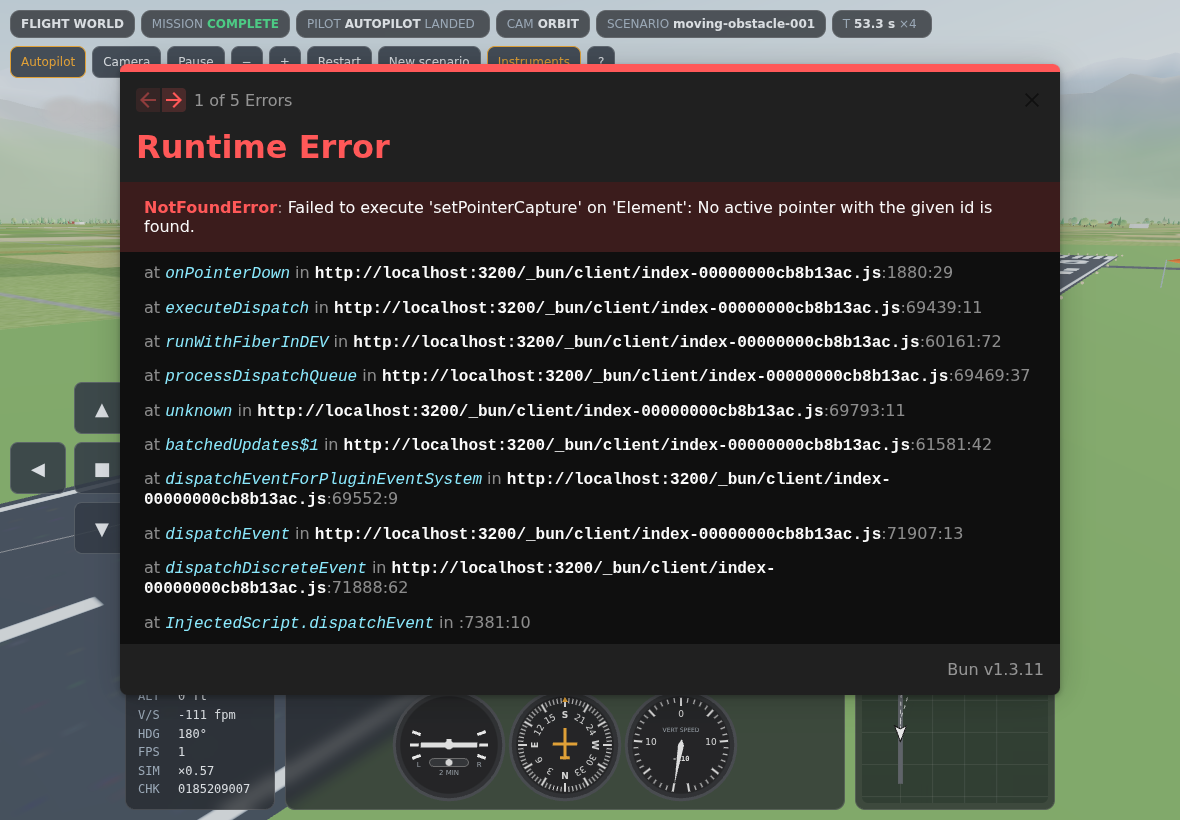
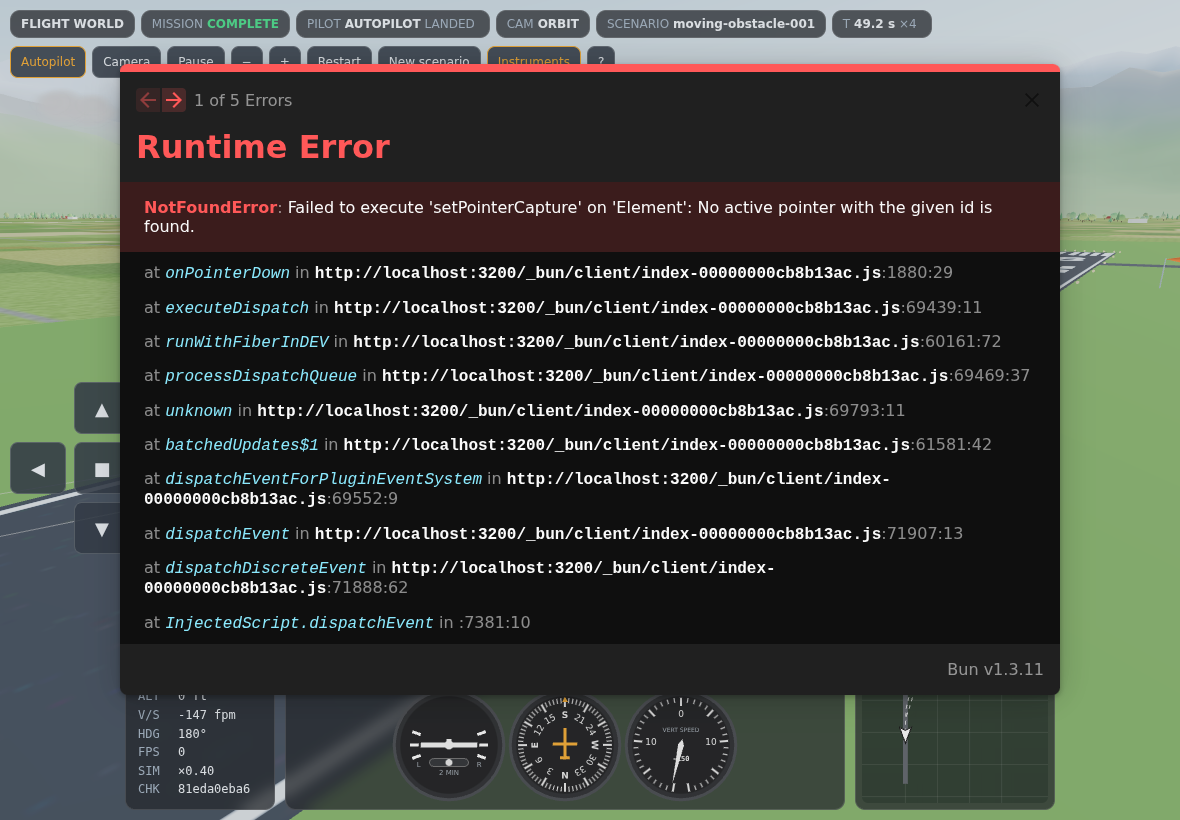
fix(qa): touch yoke engages manual control before best-effort pointer capture
setPointerCapture throws for pointers the browser no longer tracks
(interrupted gestures); the throw aborted the handler before control was
handed over. Controls QA restarts the flight before the touch-pad checks.

Claude-Session: https://claude.ai/code/session_01RqNu9e1nvBPs3AALUkYfwx

diff --git a/apps/simulator/src/hud.tsx b/apps/simulator/src/hud.tsx
@@ -50,7 +50,9 @@ const PAD:[PilotIntent|null,string,string][]=[[null,"",""],["CLIMB","▲","Climb
 /** On-screen yoke for touch devices (iPad): hold a direction, release to hold altitude. */
 export function TouchPad({store}:{store:SimStore}){
  return <div className="pad" aria-label="Touch flight controls">{PAD.map(([i,glyph,label],k)=>i?
-  <button key={k} aria-label={label} data-intent={i} onPointerDown={e=>{e.preventDefault();e.currentTarget.setPointerCapture(e.pointerId);store.manual(i)}} onPointerUp={()=>store.setIntent("HOLD")} onPointerCancel={()=>store.setIntent("HOLD")}>{glyph}</button>:<span key={k}/>)}</div>;
+  <button key={k} aria-label={label} data-intent={i} onPointerDown={e=>{e.preventDefault();store.manual(i);
+   // Capture is best-effort: it throws for pointers the browser no longer tracks (interrupted gestures).
+   try{e.currentTarget.setPointerCapture(e.pointerId)}catch{/* release still arrives via pointerup/pointercancel on the button */}}} onPointerUp={()=>store.setIntent("HOLD")} onPointerCancel={()=>store.setIntent("HOLD")}>{glyph}</button>:<span key={k}/>)}</div>;
 }
 export function Banner({hud}:{hud:HudState}){if(!hud.banner)return null;return <div className="banner panel" role="status"><div>{hud.banner.title}</div>{hud.banner.detail&&<small>{hud.banner.detail}</small>}</div>}
 export function ErrorBox({hud}:{hud:HudState}){if(!hud.error)return null;return <div className="error panel" role="alert">{hud.error}</div>}
